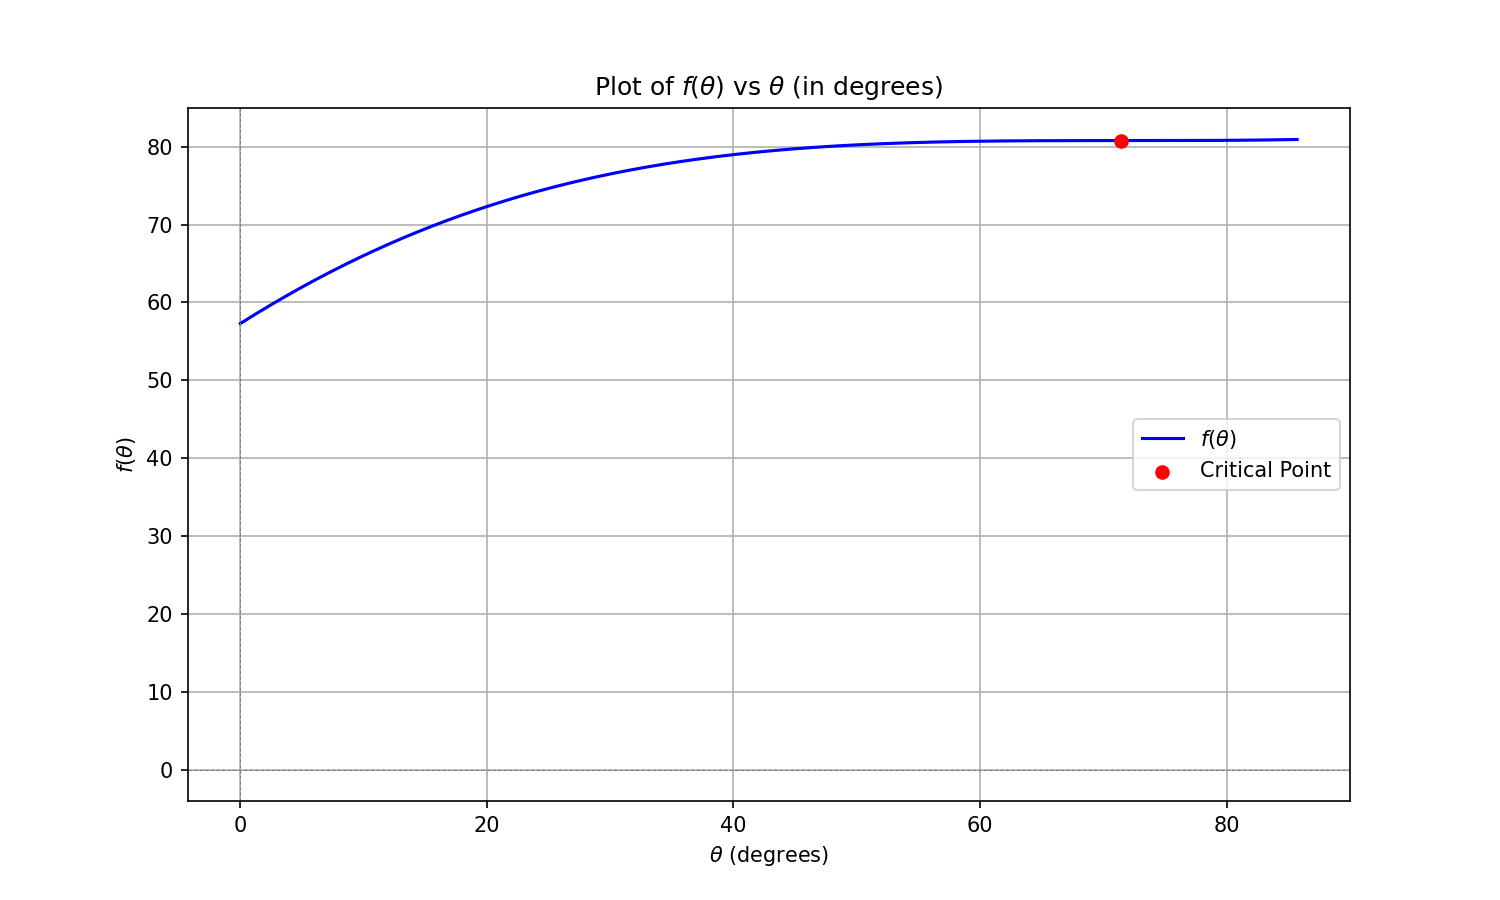
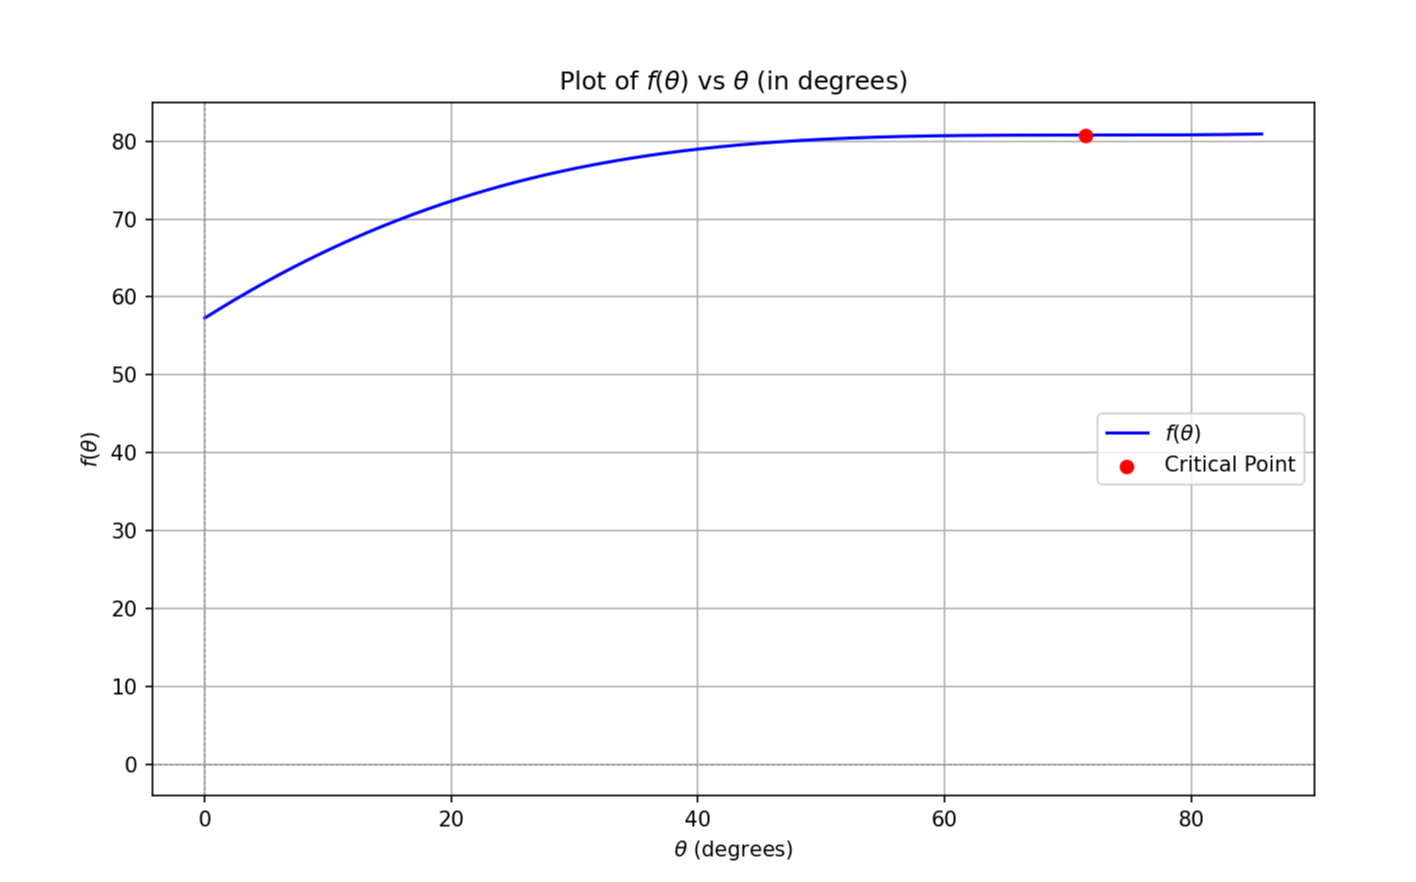
Update website

Changed region(s): [[0.0311, 0.0612, 0.9322, 0.9796], [0.839, 0.3061, 0.9322, 0.3673]]

diff --git a/games/chase.html b/games/chase.html
@@ -244,7 +244,7 @@ Try moving along the grey circle within the pond.</p>
 <p>Well, if you give it a try, you may find as we increase the speed of the fox, this strategy may not work as well.</p>
 <h4>Optimize it!</h4>
 <p>Assuming we followed step one, and we are at the optimal point (maximum angle/distance away from the fox), as shown in the graph below. We can then formulate this problem of finding the optimal path from this point onwards into an optimization.</p>
-<p><img alt="optimal_scenario" src="/static/images/games/chase/optimal_scenario.png" width="800px" /></p>
+<p><img alt="optimal_scenario" src="/static/images/games/chase/optimal_scenario.png" width="600px" /></p>
 <p>As shown in the plot, we will first define a few variables:</p>
 <ul>
 <li>$v_d$ to be the duck's velocity, $v_f$ to be the fox's velocity, and $\omega_f$ to be its angular velocity.</li>
